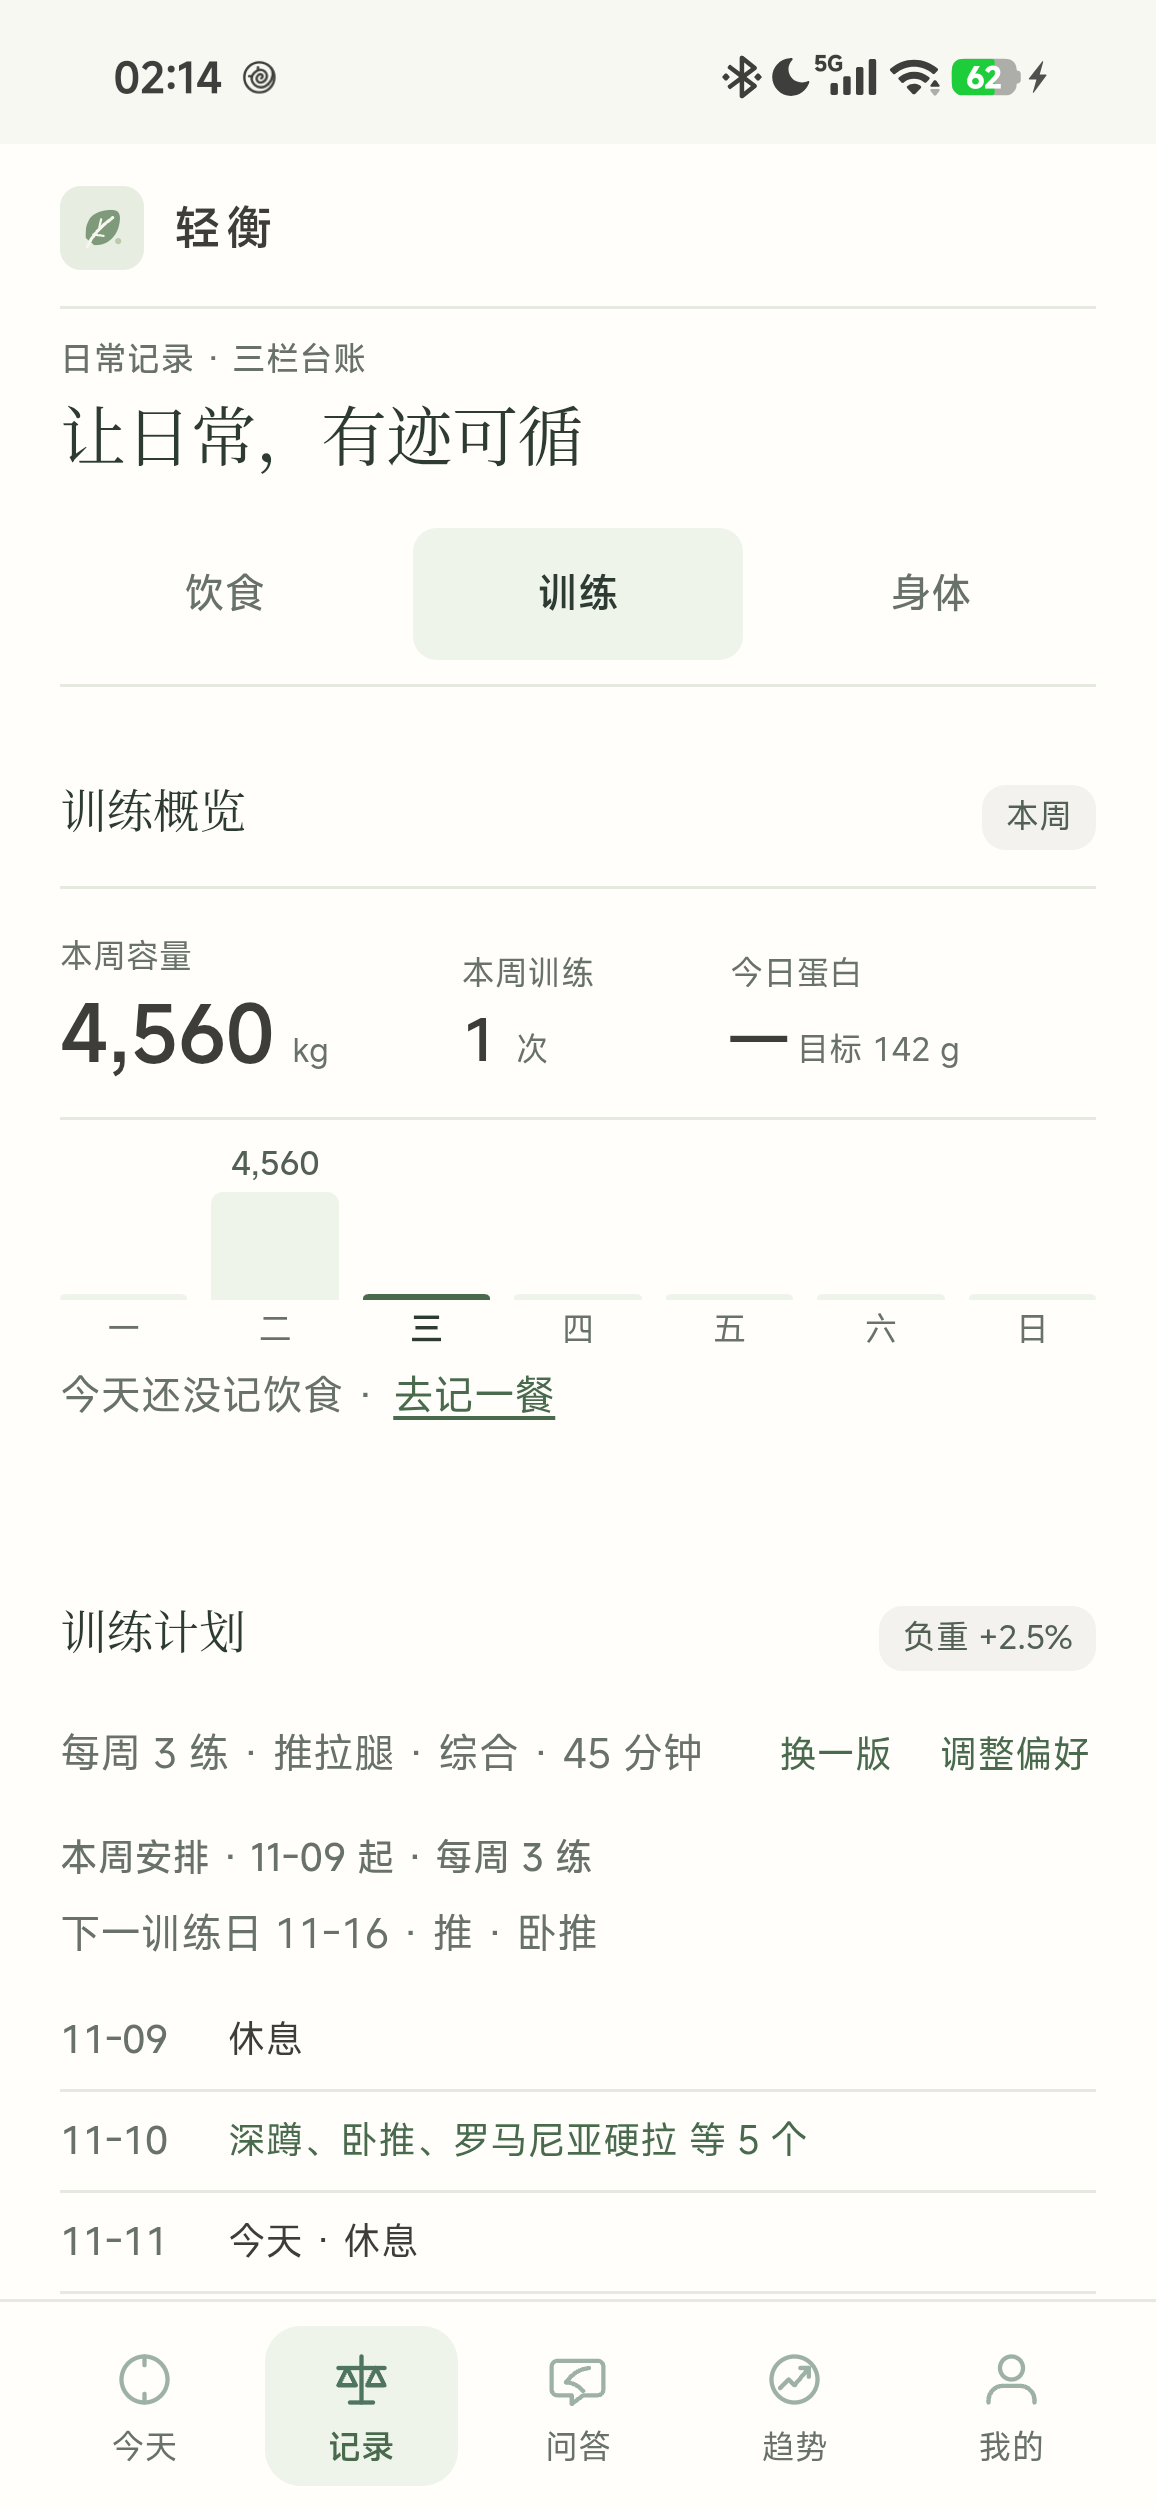
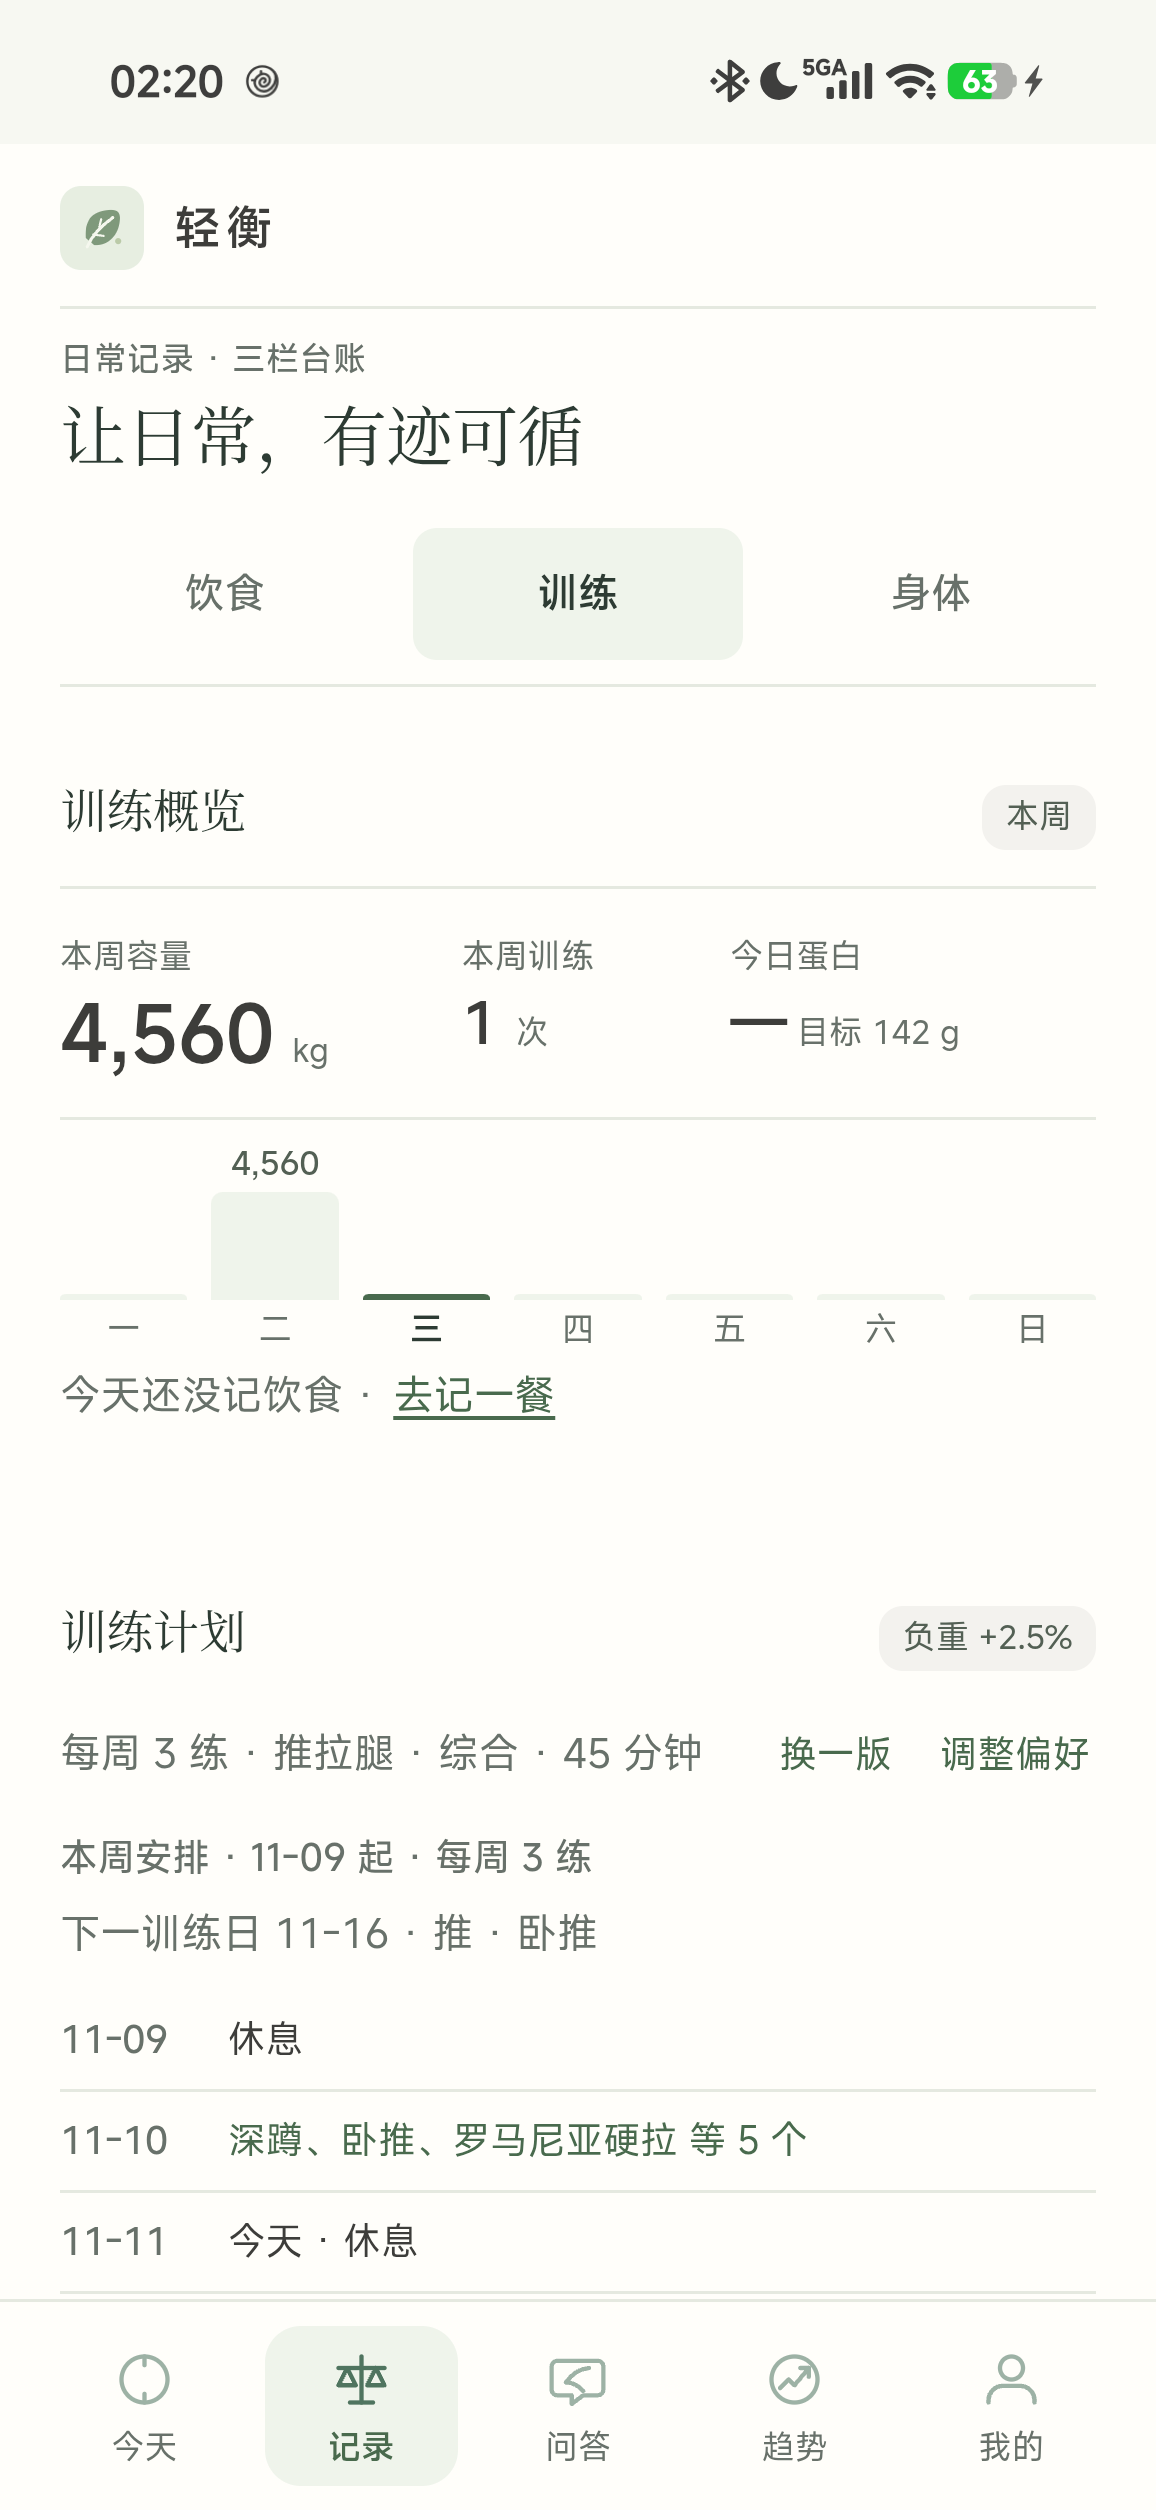
轻衡 1.3.39：训练概览统计基线对齐 + 截图刷新
- 概览三格由 align-items:end 改 start：26/19/19 三种字号混排时，标签原来各差 4px，现在严格同一基线。
- 刷新 docs/design/art/training-20261111-1-overview.png 为 1.3.39 真机截图。
- 验收：test-all 61/61；dev-loop 1.3.39/339 全绿。

diff --git a/app/src/main/assets/styles.css b/app/src/main/assets/styles.css
@@ -1558,7 +1558,7 @@ details.plan-why>summary::after,details.plan-cue-block>summary::after{width:auto
 .adv-plan-log{flex:0 0 auto;min-height:32px;padding:0 8px;font-size:13px;white-space:nowrap}
 
 /* training overview: one lead number + a week of bars that actually carries values */
-.overview-grid{display:grid;grid-template-columns:1.1fr .7fr 1.1fr;gap:12px;border-top:1px solid var(--line);padding-top:14px;align-items:end}
+.overview-grid{display:grid;grid-template-columns:1.1fr .7fr 1.1fr;gap:12px;border-top:1px solid var(--line);padding-top:14px;align-items:start}
 .overview-stat small{display:block;font-size:var(--text-xs);color:var(--muted)}
 .overview-stat strong{font-size:19px;font-weight:var(--fw-semibold);line-height:1.4;white-space:nowrap;font-variant-numeric:tabular-nums}
 .overview-stat.is-lead strong{font-size:26px;line-height:1.25}

diff --git a/app/src/main/assets/app.js b/app/src/main/assets/app.js
@@ -5838,7 +5838,7 @@ function metricIcon(label) {
     panel.addEventListener('toggle', () => {if (panel.open) showContextPreview(kind, $('#' + nodeId), activeDate).catch(() => {});});
   }
   // ---- Hub entries and sub-page navigation -------------------------------------------------------
-  const APP_VERSION = '1.3.38';
+  const APP_VERSION = '1.3.39';
   document.addEventListener('click', event => {
     const entry = event.target.closest('[data-subpage-open]');
     if (entry) {openSubpage(entry.dataset.subpageOpen); return;}

diff --git a/app/src/fragments/70-rest.fragment.js b/app/src/fragments/70-rest.fragment.js
@@ -152,7 +152,7 @@
     panel.addEventListener('toggle', () => {if (panel.open) showContextPreview(kind, $('#' + nodeId), activeDate).catch(() => {});});
   }
   // ---- Hub entries and sub-page navigation -------------------------------------------------------
-  const APP_VERSION = '1.3.38';
+  const APP_VERSION = '1.3.39';
   document.addEventListener('click', event => {
     const entry = event.target.closest('[data-subpage-open]');
     if (entry) {openSubpage(entry.dataset.subpageOpen); return;}

diff --git a/docs/design/RUNLOG-codex.md b/docs/design/RUNLOG-codex.md
@@ -679,7 +679,7 @@
[1 lines of base64/hex data omitted]
 - 源码提交 `93bf095`；回滚：`git revert 93bf095`。
 
-## r95 · 2026-11-11 · 1.3.38（记录-训练页美术重做）
+## r95 · 2026-11-11 · 1.3.39（记录-训练页美术重做）
 - 需求原话：「审视APP轻衡的美术设计，模仿opus5.5模型的审美去判断记录-训练功能各个选项按钮含义是否明确，页面布局是否合理，美术风格是否足够凝练，选项框便签堆叠是否美观？列出清单并逐一实现优化，并按opus5.5模型的美术要求验收。」
 - 诊断（像素级）：记录页字段是「灰底 + 只留深色底边 + 12px 圆角」，在 480dpi 上底边圆角端点悬在填充外 10 设备像素（填充止于 y≈1352、深线在 y≈1363），所以每个输入框像两张叠着的便签——这就是「选项框便签堆叠」。另有 6 个 48px 同权重按钮、3 个 accent 角标、两个「主行动」互抢，以及训练日志里一组「已标记训练」标签配空白表单。
 - 另发现功能缺陷：「添加动作」仍在生成 1.3.30 之前的旧三字段行（组数/次数/负重），没有 [data-set-row]，保存必被判「每组都要填次数与负重」。
@@ -687,8 +687,9 @@
 - 结构：周计划把连续休息日合并成「11-12 → 15 · 休息 4 天」，删掉重复的「今天的状态」三行块（只留「下一训练日」一行小注）；今日顺序改成三行式，有清单时「用 AI 排今天」降级为「重排今天」，主行动变成「全部加入今天的训练记录」；概览把本周容量升为主数字、柱顶标值、空态给「去记一餐」入口。
 - 文案：已标记训练→已练·动作未填；重新生成/修改→换一版/调整偏好；按上周 +2.5%→负重 +2.5%；急慢性负荷比→负荷比（附 0.8–1.3 口径）；算一下负重→杠铃总重；组间休息→休息 90s；改成 30 分钟→改单次时长。
 - 补一拍：容量原来只在增删组时重算，填完「10 次 × 60 kg」仍挂着「—」。给 #training-exercises 加 input 委托，改数即重算（真机确认 600 kg）。
-- 验收：test-all 61/61；dev-loop 1.3.38/338 全绿（测试 12.3s / 打包 12.9s / 装机 9.6s）；真机 1156×2510 四屏截图（docs/design/art/training-20261111-{1..4}.png）确认字段无双线、点「添加动作」出现带 1 组的新行并聚焦、点完成圆点变实心并起 1:29 倒计时；账本与夜间用 Chrome DPR3 静态对照（build/harness-{ledger,night}*.png）。
+- 再补一拍：概览三格的基线由 `align-items:end` 改 `start`——26/19/19 三种字号下，原来的标签会各差 4px；现在三个标签严格同一条线。
+- 验收：test-all 61/61；dev-loop 1.3.39/339 全绿（测试 12.3s / 打包 12.9s / 装机 9.6s）；真机 1156×2510 四屏截图（docs/design/art/training-20261111-{1..4}.png）确认字段无双线、点「添加动作」出现带 1 组的新行并聚焦、点完成圆点变实心并起 1:29 倒计时；账本与夜间用 Chrome DPR3 静态对照（build/harness-{ledger,night}*.png）。
 - 断言更新已登记：tests/training-log.test.mjs ×3（动作行字段改 data-set、12 上限 return null、剂量距离窗口 300→600）。
 - 未做：周条（7 格 + 点开当天）、今日顺序拖拽排序、组间休息按动作区分、空态块替换空白行——理由见 docs/design/26-record-training-art-review.md 第五节。
 - GitHub：origin 推送连续 TLS 握手失败（schannel / openssl 两条后端都失败）；localmirror 已推（force-with-lease），待网络恢复后补推。
-- APK：dist/qingheng-1.3.38.apk（599 KB，sha256 E6C341F819D0772A6FB5AB1FAD886E59D4A1FD96766E720A7F454D445C84FC5F）。
+- APK：dist/qingheng-1.3.39.apk（599 KB，sha256 0F36584C70A5C79A9199ACA0D44291D43D327C1BE18CC45BE4F79775006FD1A7）。

diff --git a/docs/design/26-record-training-art-review.md b/docs/design/26-record-training-art-review.md
@@ -1,4 +1,4 @@
-# 26 · 记录页「训练」美术复盘与重做（2026-11-11 · 1.3.38）
+# 26 · 记录页「训练」美术复盘与重做（2026-11-11 · 1.3.39）
 
 > 触发：用户要求「模仿 opus5.5 模型的审美去判断记录-训练功能各个选项按钮含义是否明确、页面布局是否合理、
 > 美术风格是否足够凝练、选项框便签堆叠是否美观？列出清单并逐一实现优化，并按 opus5.5 美术要求验收」。
@@ -67,7 +67,7 @@
    周计划里 5 行连续的「休息」。
 5. **数字可读**：容量 4,560 kg 是主数字；柱顶有值；组次重量等宽对齐；容量随组变化实时重算。
 
-真机验证（1.3.38，1156×2510 / 480dpi，纸感）：
+真机验证（1.3.39，1156×2510 / 480dpi，纸感）：
 
 - 概览：`4,560 kg / 1 次 / — 目标 142 g`，柱顶 4,560，今日星期加粗。
 - 计划：一行偏好摘要 + 一行「下一训练日」+ 合并后的周列表。
@@ -89,4 +89,4 @@
 
 - 源码：`git revert <本轮提交>`。
 - 仅回滚视觉：`git checkout <提交前哈希> -- app/src/main/assets/styles.css`。
-- 版本：1.3.38 / versionCode 338；APK `dist/qingheng-1.3.38.apk`（599 KB）。
+- 版本：1.3.39 / versionCode 339；APK `dist/qingheng-1.3.39.apk`（599 KB）。

diff --git a/README.md b/README.md
@@ -2,7 +2,7 @@
 
 一个把「记录」认真做好的本地优先 Android 健康应用：饮食、训练、身体数据与睡眠饮水都留在手机里，需要 AI 时再按你的明确同意调用你自己的模型服务。
 
-![Version](https://img.shields.io/badge/version-1.3.38-informational) ![Tests](https://img.shields.io/badge/tests-61%20%2F%2061-green) ![MinSdk](https://img.shields.io/badge/minSdk-26-blue) ![TargetSdk](https://img.shields.io/badge/targetSdk-35-blue) ![APK](https://img.shields.io/badge/APK-599%20KB-lightgrey)
+![Version](https://img.shields.io/badge/version-1.3.39-informational) ![Tests](https://img.shields.io/badge/tests-61%20%2F%2061-green) ![MinSdk](https://img.shields.io/badge/minSdk-26-blue) ![TargetSdk](https://img.shields.io/badge/targetSdk-35-blue) ![APK](https://img.shields.io/badge/APK-599%20KB-lightgrey)
 
 ## 项目定位
 
@@ -56,7 +56,7 @@ tools\assemble-app.ps1
 node tools/test-all.mjs
 
 # 版本号 + 测试 + 打包 + 装机 + 冒烟（约 30s）
-tools\dev-loop.ps1 -Version 1.3.38 -VersionCode 338
+tools\dev-loop.ps1 -Version 1.3.39 -VersionCode 339
 ```
 
 - 版本规则：`1.<minor>.<patch>`，patch 两位补零、逢百进一；`dev-loop` 会同步片段常量、`build.ps1` 默认值与测试字面量。
